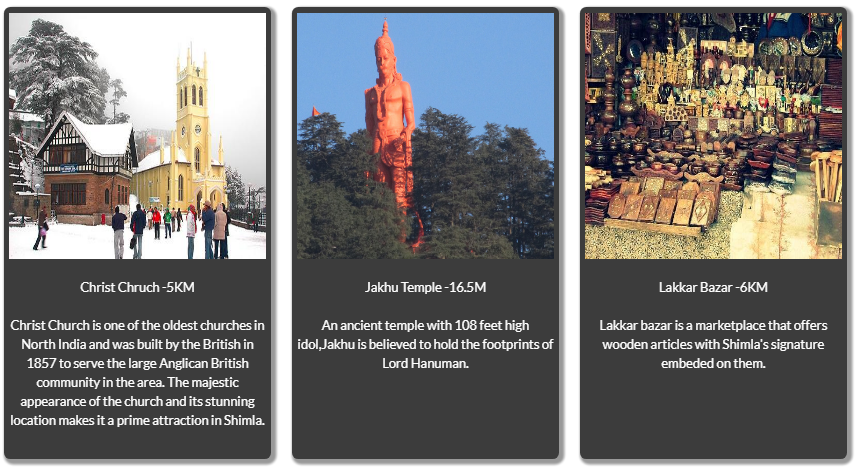
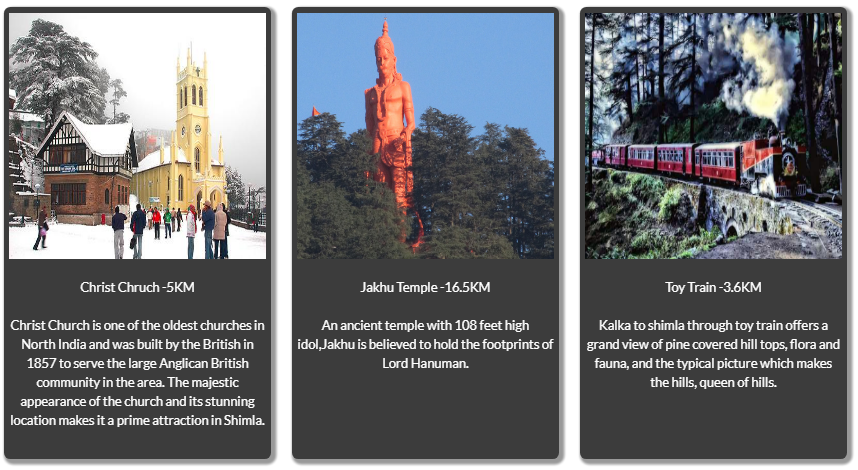
locations

diff --git a/_includes/Location.html b/_includes/Location.html
@@ -6,8 +6,8 @@
         <div class="container-fluid">
             <div class="col-md-12">
                 <div class="jumbotron" style="background-color:white; color:#7a7e82; padding-top:0px">
-                    <div class="page-header" style="background-color:white;">
-                        <p class="titletext" style="font-size:1.8rem; text-align:center; color:#3c3c3c; font-family: Montserrat; border-bottom: 1px solid #ef767a; margin-left:11em; margin-right:11em; letter-spacing: 2px; margin-bottom:0px">Tourist Attractions
+                    <div class="page-header container" style="background-color:white;">
+                        <p class="titletext" style="font-size:1.8rem; text-align:center; color:#3c3c3c; font-family: Montserrat; border-bottom: 1px solid #ef767a; margin-left:13.5em; margin-right:13.5em; letter-spacing: 2px; margin-bottom:0px">Tourist Attractions
                         </p>
                     </div>
                     <!--<div class="col-md-4 cardBoundry">
@@ -98,19 +98,19 @@
                             <img src="./web-dist/images/placesToVisit/jhaku.jpg" class="locationImage">
 
                             <div class="locationDescription">
-                                <div class="locationHeading"><br>Jakhu Temple -16.5M</div><br>An ancient temple with 108 feet high idol,Jakhu is believed to hold the footprints of Lord Hanuman.</div>
+                                <div class="locationHeading"><br>Jakhu Temple -16.5KM</div><br>An ancient temple with 108 feet high idol,Jakhu is believed to hold the footprints of Lord Hanuman.</div>
                             <div style="height:0.4em; border-radius:9px"></div>
                         </div>
                     </div>
                     <div class="col-md-4 cardBoundry">
                         <div class="locationCard blackTheme">
-                            <img src="./web-dist/images/placesToVisit/lakkar-bazaar-shops-2.jpg" class="locationImage">
+                            <img src="./web-dist/images/placesToVisit/ToyTrain.jpg" class="locationImage">
                             <div class="locationDescription">
-                                <div class="locationHeading"><br>Lakkar Bazar -6KM</div><br>Lakkar bazar is a marketplace that offers wooden articles with Shimla's signature embeded on them.</div>
+                                <div class="locationHeading"><br>Toy Train -3.6KM</div><br>Kalka to shimla through toy train offers a grand view of pine covered hill tops, flora and fauna, and the typical picture which makes the hills, queen of hills.</div>
                             <div style="height:0.4em; border-radius:9px"></div>
                         </div>
                     </div>-->
-                    <div id="myCarouselLocation" class="carousel slide carousel-fade" data-interval="3000" data-ride="carousel" style="background-color:white">
+                    <div id="myCarouselLocation" class="carousel slide carousel-fade" data-interval="5000" data-ride="carousel" style="background-color:white">
                         <ol class="carousel-indicators">
                             <li data-target="#myCarouselLocation" data-slide-to="0" class="active"></li>
                             <li data-target="#myCarouselLocation" data-slide-to="1"></li>
